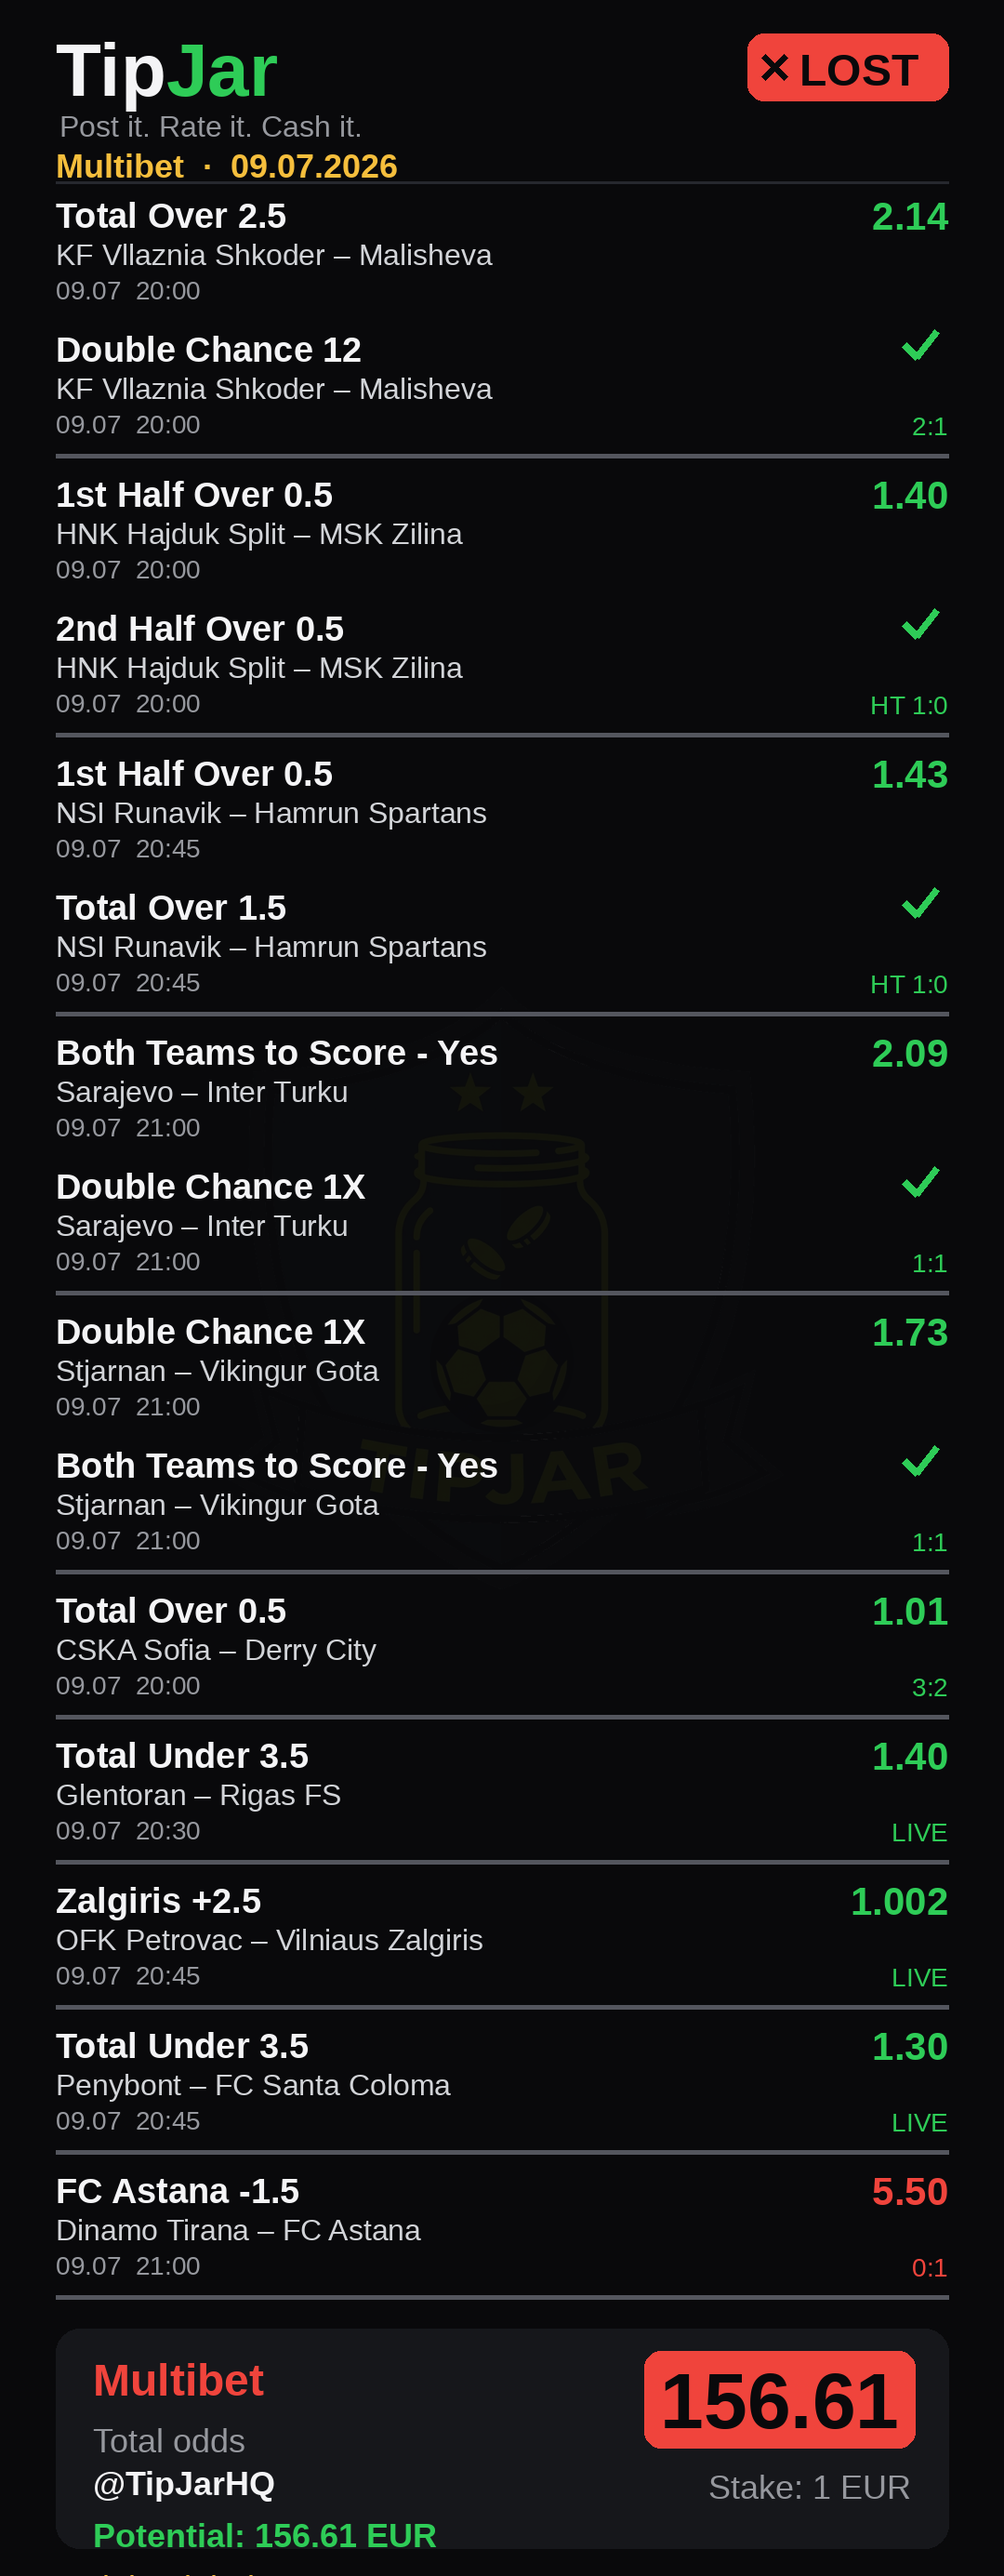
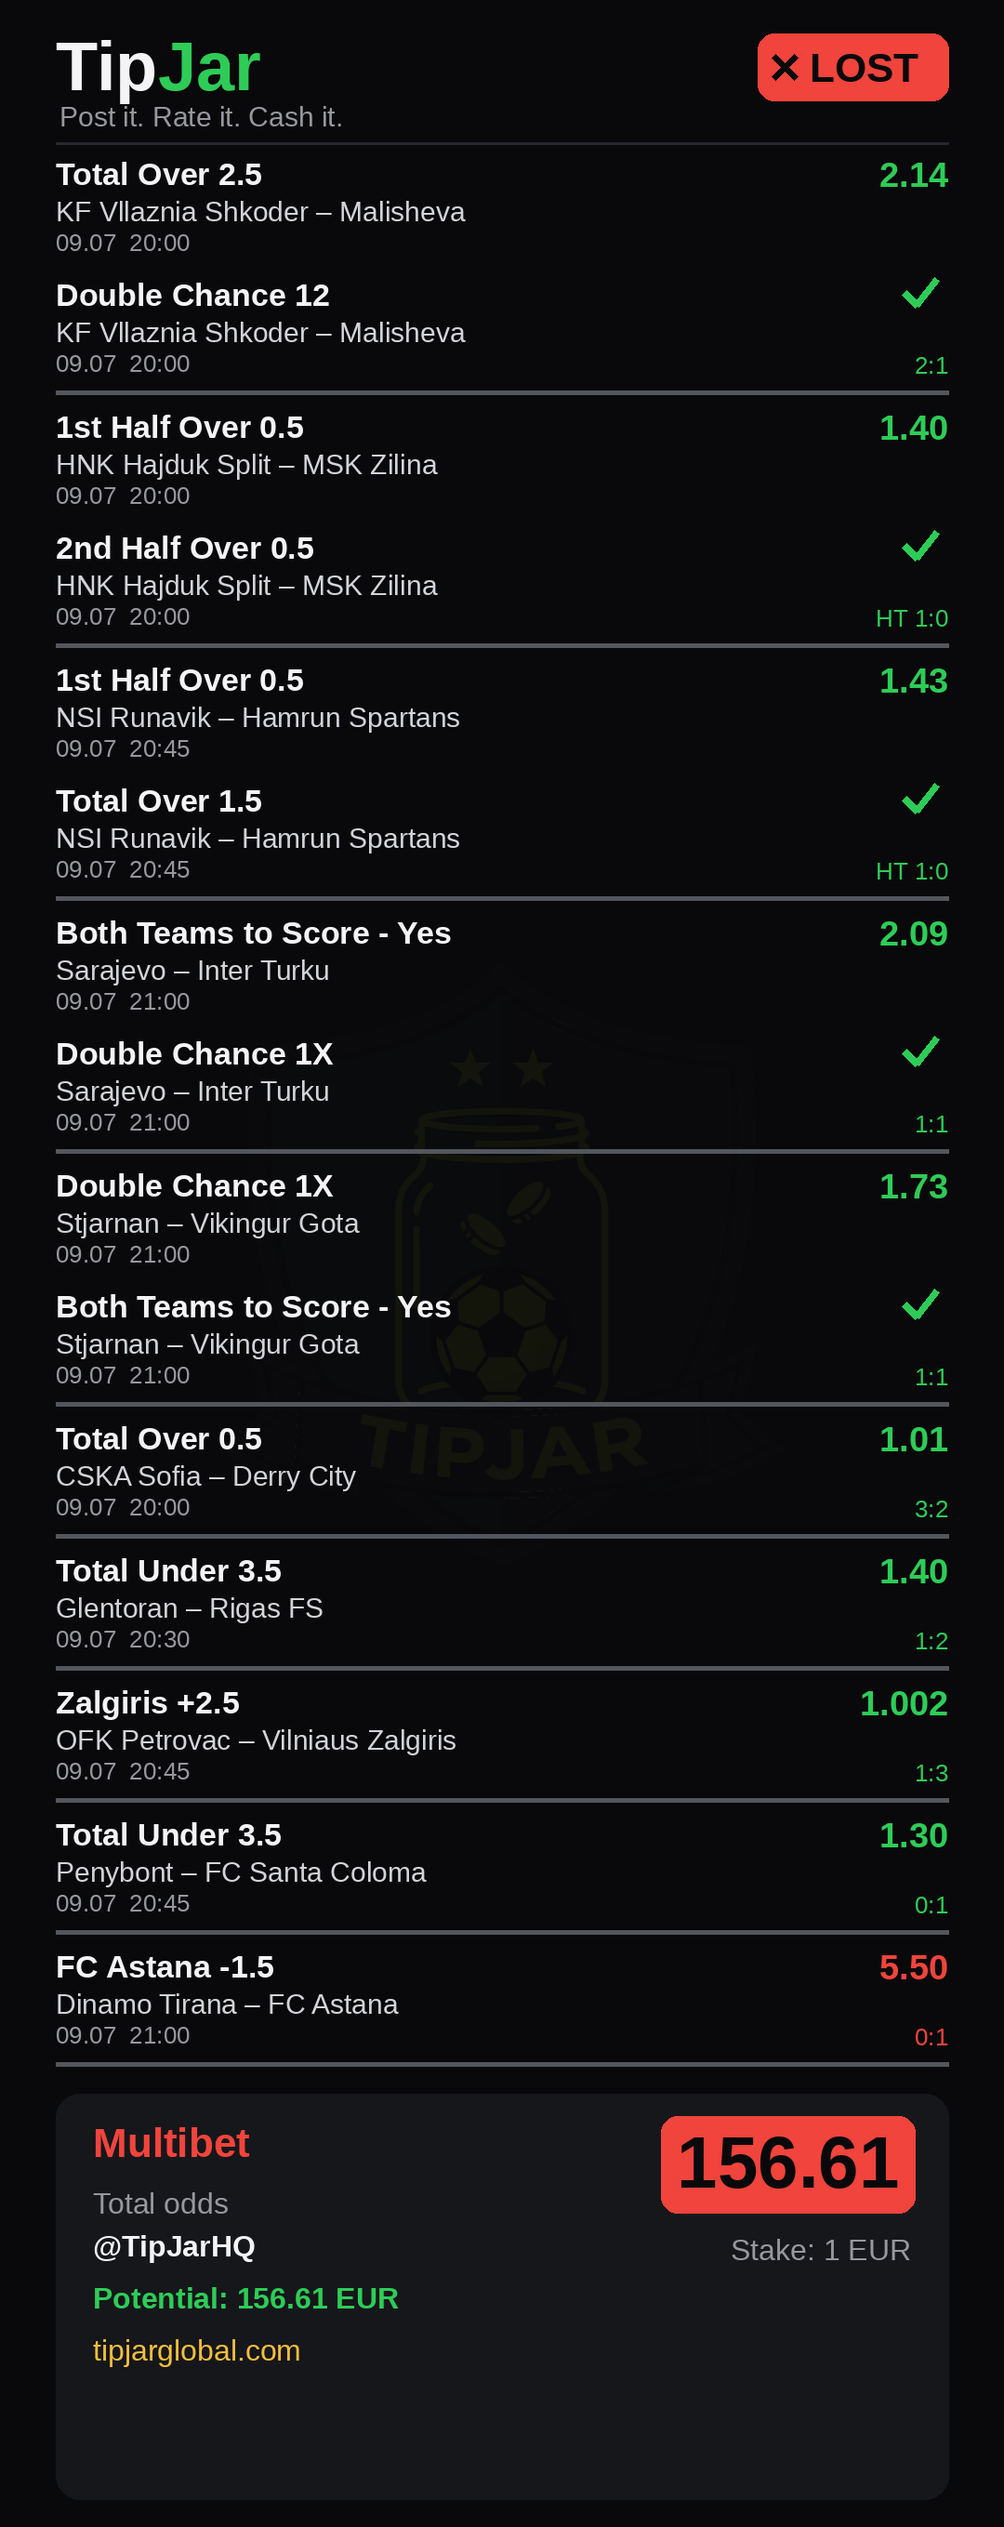
auto-commit for 9ae8907a-2839-45b2-a2e3-1745a82175e6

diff --git a/scripts/render_ad_slips.py b/scripts/render_ad_slips.py
@@ -36,20 +36,20 @@ def fit(txt, path, hi, lo, maxw):
 
 def render(legs, total_odds, stake, potential, out_path, subtitle):
     W, pad = 1080, 60
-    f_logo = font(FB, 80)
-    f_tag = font(FR, 32)
-    f_badge = font(FB, 48)
-    f_sub = font(FB, 36)
-    f_teams = font(FR, 32)
-    f_meta = font(FR, 28)
-    f_odd = font(FB, 42)
-    f_big = font(FB, 84)
-    f_lbl = font(FR, 36)
-    f_lblB = font(FB, 48)
-    f_foot = font(FB, 36)
+    f_logo = font(FB, 74)
+    f_tag = font(FR, 30)
+    f_badge = font(FB, 44)
+    f_sub = font(FB, 34)
+    f_teams = font(FR, 30)
+    f_meta = font(FR, 26)
+    f_odd = font(FB, 38)
+    f_big = font(FB, 78)
+    f_lbl = font(FR, 32)
+    f_lblB = font(FB, 44)
+    f_foot = font(FB, 32)
 
-    head_h = 210
-    foot_h = 310
+    head_h = 168
+    foot_h = 300
     row_h = 150
 
     H = head_h + len(legs) * row_h + foot_h
@@ -70,7 +70,7 @@ def render(legs, total_odds, stake, potential, out_path, subtitle):
     d.text((pad, 30), "Tip", font=f_logo, fill=WHITE)
     tw = d.textlength("Tip", font=f_logo)
     d.text((pad + tw, 30), "Jar", font=f_logo, fill=GREEN)
-    d.text((pad + 4, 118), "Post it. Rate it. Cash it.", font=f_tag, fill=GREY)
+    d.text((pad + 4, 108), "Post it. Rate it. Cash it.", font=f_tag, fill=GREY)
 
     badge = "LOST"
     bw = d.textlength(badge, font=f_badge)
@@ -81,7 +81,6 @@ def render(legs, total_odds, stake, potential, out_path, subtitle):
     d.line([(cx - 12, cy + 12), (cx + 12, cy - 12)], fill=VOID, width=7)
     d.text((bx0 + 56, 48), badge, font=f_badge, fill=VOID)
 
-    d.text((pad, 158), subtitle, font=f_sub, fill=AMBER)
     d.line([pad, head_h - 14, W - pad, head_h - 14], fill=LINE, width=3)
 
     y = head_h
@@ -102,27 +101,26 @@ def render(legs, total_odds, stake, potential, out_path, subtitle):
                 d.line([(mx - 18, y + 16), (mx - 4, y + 30)], fill=GREEN, width=8)
                 d.line([(mx - 4, y + 30), (mx + 18, y + 2)], fill=GREEN, width=8)
             ow = 0
-        mkt_f = fit(lg["market"], FB, 38, 26, W - 2 * pad - ow - 60)
+        mkt_f = fit(lg["market"], FB, 34, 24, W - 2 * pad - ow - 60)
         d.text((pad, y), lg["market"], font=mkt_f, fill=WHITE)
-        y += 46
+        y += 42
         teams = f"{lg['home']} \u2013 {lg['away']}"
-        tf = fit(teams, FR, 32, 22, W - 2 * pad)
+        tf = fit(teams, FR, 30, 22, W - 2 * pad)
         d.text((pad, y), teams, font=tf, fill=(210, 212, 216))
-        y += 40
+        y += 36
         same_next = (i + 1 < len(legs)) and (
             legs[i + 1]["home"] == lg["home"] and legs[i + 1]["away"] == lg["away"])
         d.text((pad, y), lg["time"], font=f_meta, fill=GREY)
-        # result on the RIGHT only once per match → skip it on the upper leg of a group
         if not same_next:
             res = lg["result"]
             rw = d.textlength(res, font=f_meta)
             d.text((W - pad - rw, y + 2), res, font=f_meta, fill=col)
-        y += 46
+        y += 42
         if same_next:
-            y += 12  # same match, next leg → no divider
+            y += 10
         else:
             d.line([pad, y + 4, W - pad, y + 4], fill=(84, 86, 94), width=5)
-            y += 24
+            y += 22
 
     fy = y + 14
     d.rounded_rectangle([pad, fy, W - pad, H - 30], 26, fill=CARD)
@@ -156,9 +154,9 @@ slip1 = [
     {"market": "Double Chance 1X", "home": "Stjarnan", "away": "Vikingur Gota", "time": "09.07  21:00", "odd": "1.73", "result": "1:1", "status": "won"},
     {"market": "Both Teams to Score - Yes", "home": "Stjarnan", "away": "Vikingur Gota", "time": "09.07  21:00", "odd": "", "result": "1:1", "status": "won"},
     {"market": "Total Over 0.5", "home": "CSKA Sofia", "away": "Derry City", "time": "09.07  20:00", "odd": "1.01", "result": "3:2", "status": "won"},
-    {"market": "Total Under 3.5", "home": "Glentoran", "away": "Rigas FS", "time": "09.07  20:30", "odd": "1.40", "result": "LIVE", "status": "live"},
-    {"market": "Zalgiris +2.5", "home": "OFK Petrovac", "away": "Vilniaus Zalgiris", "time": "09.07  20:45", "odd": "1.002", "result": "LIVE", "status": "live"},
-    {"market": "Total Under 3.5", "home": "Penybont", "away": "FC Santa Coloma", "time": "09.07  20:45", "odd": "1.30", "result": "LIVE", "status": "live"},
+    {"market": "Total Under 3.5", "home": "Glentoran", "away": "Rigas FS", "time": "09.07  20:30", "odd": "1.40", "result": "1:2", "status": "won"},
+    {"market": "Zalgiris +2.5", "home": "OFK Petrovac", "away": "Vilniaus Zalgiris", "time": "09.07  20:45", "odd": "1.002", "result": "1:3", "status": "won"},
+    {"market": "Total Under 3.5", "home": "Penybont", "away": "FC Santa Coloma", "time": "09.07  20:45", "odd": "1.30", "result": "0:1", "status": "won"},
     {"market": "FC Astana -1.5", "home": "Dinamo Tirana", "away": "FC Astana", "time": "09.07  21:00", "odd": "5.50", "result": "0:1", "status": "lost"},
 ]
 
